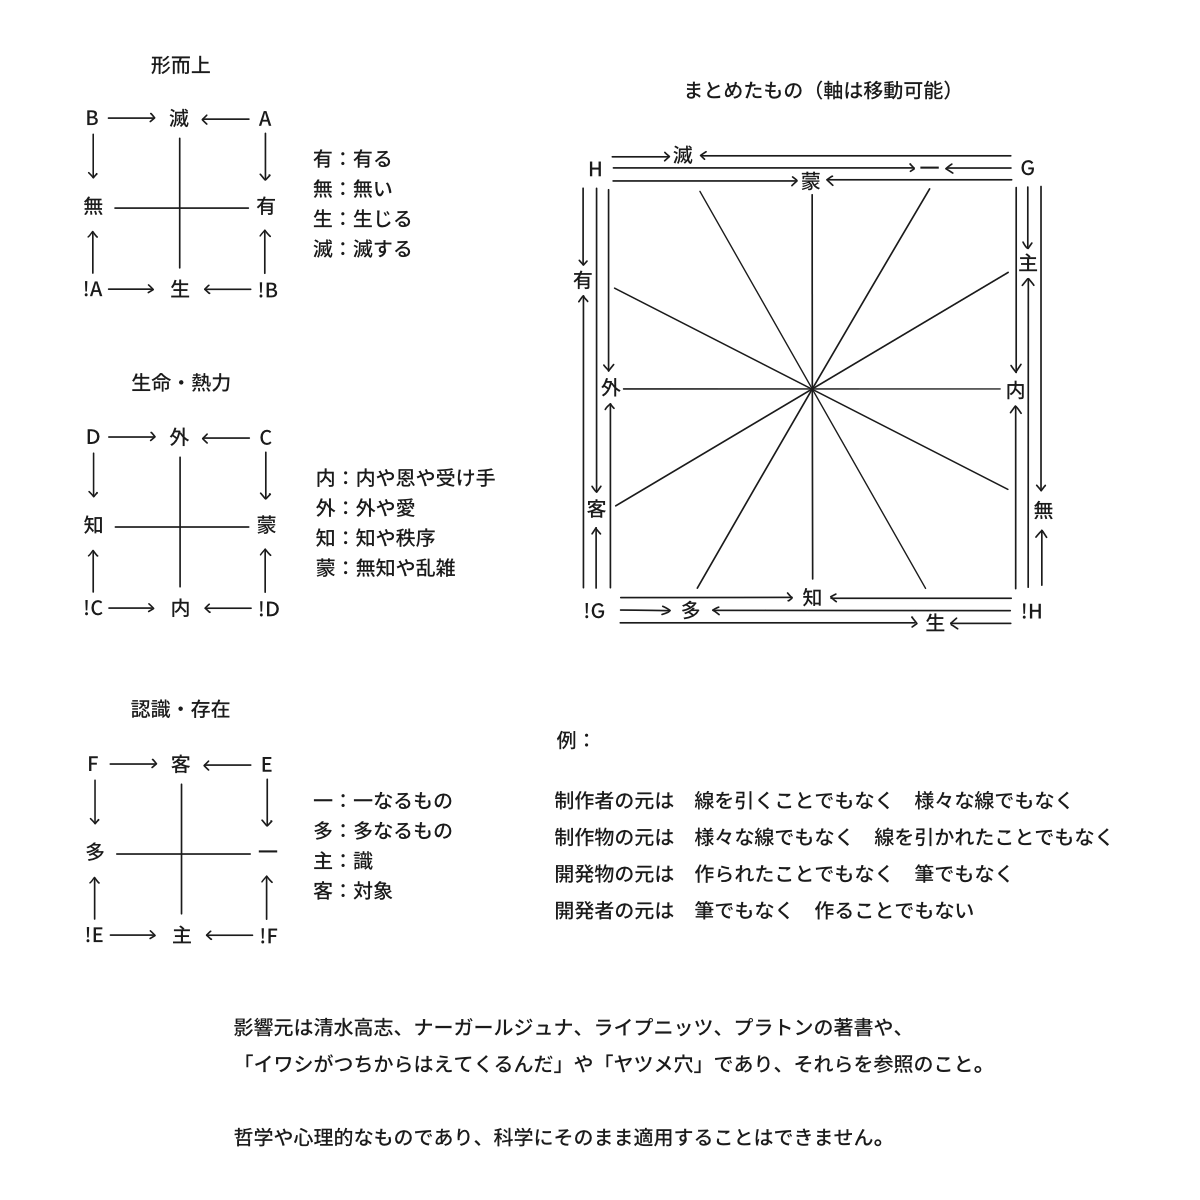
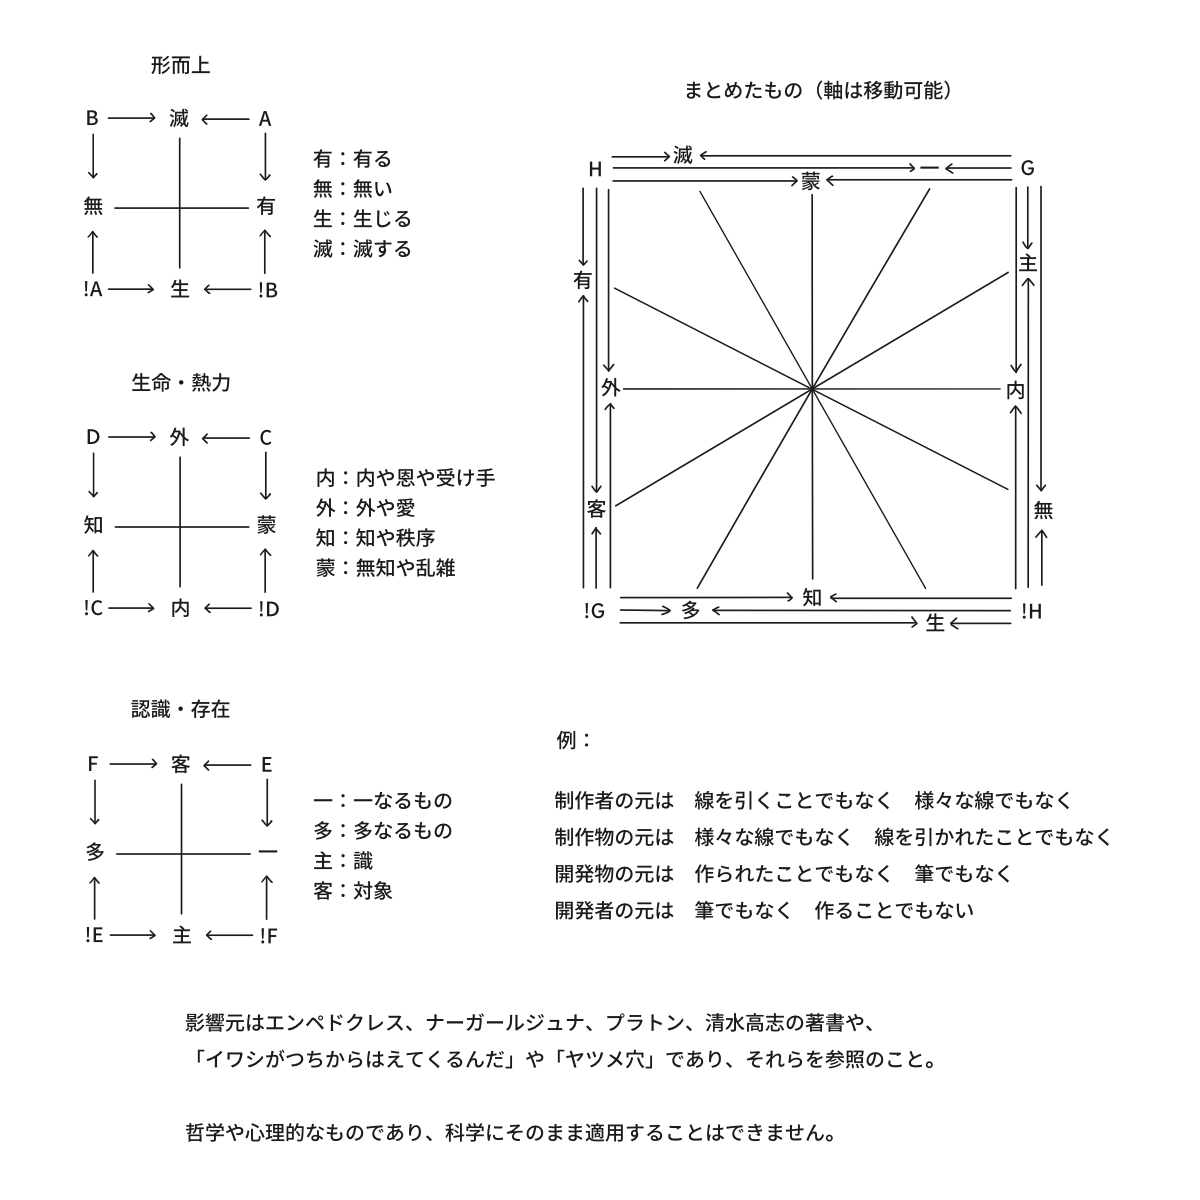
c

Changed region(s): [[0.1542, 0.8325, 0.8017, 0.8942], [0.1542, 0.925, 0.74, 0.9558]]

diff --git a/Shikisen/PasteAction.swift b/Shikisen/PasteAction.swift
@@ -1500,9 +1500,10 @@ final class APasteAction: Action {
                 return true
             } else if let result = textView.typesetter.warpCursorOffset(at: textView.convertFromWorld(p)), result.isLastWarp {
                 let x = result.offset
-                let widthCount = Typobute.maxWidthCount
-                
                 var text = textView.model
+                let widthCount = text.widthCount == Typobute.mainWidthCount ?
+                Typobute.maxWidthCount : Typobute.mainWidthCount
+                
                 if text.widthCount != widthCount {
                     text.widthCount = widthCount
                     
@@ -2305,8 +2306,6 @@ final class APasteAction: Action {
                 beganPitch = pitch
                 beganBeat = beat
                 
-                sheetView.hideSelected()
-                
                 sheetView.newUndoGroup()
                 sheetView.unselect()
                 if !sheetView.scoreView.model.enabled {
@@ -2326,10 +2325,6 @@ final class APasteAction: Action {
                 
                 let notes = beganNotes.sorted(by: { $0.key < $1.key }).map { $0.value }
                 sheetView.append(notes)
-                if isSelected {
-                    sheetView.doSet(SheetSelection(noteSelections: beganNotes.keys.sorted()
-                        .reduce(into: .init()) { $0[$1] = .init(pitSelections: [0: .init()]) }))
-                }
                 
                 let octaveNode = scoreView.octaveNode(noteIs: Array(count ..< count + notes.count))
                 octaveNode.attitude.position = sheetView.convertToWorld(scoreView.node.attitude.position)
@@ -3026,10 +3021,10 @@ final class APasteAction: Action {
                let (textView, ti, _, _) = sheetView.textTuple(at: sheetView.convertFromWorld(p), scale: rootView.screenToWorldScale),
                let x = textView.typesetter.warpCursorOffset(at: textView.convertFromWorld(p))?.offset {
                 let widthCount = textView.model.size == 0 ?
-                    Typobute.maxWidthCount :
+                    Typobute.mainWidthCount :
                     (x / textView.model.size)
                     .clipped(min: Typobute.minWidthCount,
-                             max: Typobute.maxWidthCount)
+                             max: Typobute.mainWidthCount)
                 
                 var text = textView.model
                 if text.widthCount != widthCount {
@@ -3293,7 +3288,7 @@ final class APasteAction: Action {
                     }
                 }
             }
-        case .notesValue:
+        case .notesValue(let v):
             octaveNode?.removeFromParent()
             octaveNode = nil
             
@@ -3314,8 +3309,10 @@ final class APasteAction: Action {
             if !noteIVs.isEmpty {
                 sheetView.capture(noteIVs, old: oldNoteIVs)
             }
-            
-            sheetView.showSelected()
+            if v.isSelected {
+                sheetView.doSet(SheetSelection(noteSelections: noteIVs.map { $0.index }
+                    .reduce(into: .init()) { $0[$1] = .init(pitSelections: [0: .init()]) }))
+            }
         case .stereo(let stereo):
             guard let sheetView = rootView.sheetView(at: shp) else { return }
             if sheetView.model.score.enabled {

diff --git a/Shikisen/Typesetter.swift b/Shikisen/Typesetter.swift
@@ -22,10 +22,11 @@ enum Alignment {
 struct Typobute: Hashable {
     static let minWidthCount = 4.0
     static let defaultWidthCount = 40.0
-    static let maxWidthCount = 40.0
+    static let mainWidthCount = 40.0
+    static let maxWidthCount = 56.0
     
     var font = Font.default,
-        maxTypelineWidth = Font.defaultSize * maxWidthCount,
+        maxTypelineWidth = Font.defaultSize * mainWidthCount,
         clippedMaxTypelineWidth = Font.defaultSize * 58,
         spacing: Double?,
         alignment = Alignment.natural,

diff --git a/Shikisen/Text.swift b/Shikisen/Text.swift
@@ -352,7 +352,7 @@ extension Text {
         }
         let widthCount = Double(maxCount)
             .clipped(min: Typobute.defaultWidthCount,
-                     max: Typobute.maxWidthCount)
+                     max: Typobute.mainWidthCount)
         self.init(string: string,
                   size: size,
                   widthCount: widthCount,
@@ -367,7 +367,7 @@ extension Text: Protobuf {
         self.size = size.clipped(min: 0, max: Font.maxSize)
         let wc = (try? pb.widthCount.notZeroAndNaN()) ?? Typobute.defaultWidthCount
         self.widthCount = wc.clipped(min: Typobute.minWidthCount,
-                                     max: Typobute.maxWidthCount)
+                                     max: Typobute.mainWidthCount)
         origin = (try? .init(pb.origin).notInfiniteAndNAN()) ?? .init()
         self.locale = (try? .init(pb.locale)) ?? .current
         self.timeOption = if case .timeOption(let timeOption)? = pb.timeOptionOptional {

diff --git a/Shikisen/DrawLineAction.swift b/Shikisen/DrawLineAction.swift
@@ -754,7 +754,7 @@ final class LineAction: Action {
                     
                     tempPs = [p]
                 } else if isAppend(maxDSq: event.time - firstChangedTime < 0.04 ?
-                                   3.0.squared : 0.5.squared) {
+                                   3.0.squared : 0.75.squared) {
                     nLine.controls[nLine.controls.count - 3].weight = 0.5
                     let prp = nLine.controls[nLine.controls.count - 1]
                     nLine.controls[nLine.controls.count - 2] = prp

diff --git a/Readme.md b/Readme.md
@@ -86,7 +86,7 @@ Mac内蔵のトラックパッドまたは Magic Trackpad 必須<br>
 <br>
 
 <img src="Shikisen/Images/Readme14.png" alt="楽譜" width="50%"><br>
-　楽譜は常にリアルタイムで引かれた音符の和音を最小の和音の組み合わせで、音量も考慮して背景に表記します。どこにトライトーンがあったり、メジャーコードがあったりするかを視覚的にも把握できるようになっており、それらの組み合わせを覚えることで四和音以上も把握できるようになっています。楽譜上でキー入力をすることで声の入力になります。最大限ズームした状態で音符を移動することで他の音符に対して相対的な純正比率を設定することもでき、許容できる音程のズレを考えることで平均律と純正律を自由に行き来できます。<br>
+　楽譜は常にリアルタイムで引かれた音符の和音を最小の和音の組み合わせで、音量も考慮して背景に表記します。どこにトライトーンがあったり、メジャーコードがあったりするかを視覚的にも把握できるようになっており、それらの組み合わせを覚えることで四和音以上も把握できるようになっています。楽譜上でキー入力をすることで声の入力になります。最大限ズームした状態で音符を移動することで他の音符に対して相対的な純正比率をスナップすることもでき、許容できる音程のズレを考えることで平均律と純正律を自由に行き来できます。<br>
 <br>
 
 　最後にこのソフトウェアについて、制作者が開発に手を出してしまい開発者となってしまった制作者が、制作と開発を右往左往した果てにできたものです。統合的としつつも、開発者にとって好きなことが中心になっており、また、設計に問題があると思うところがまだまだたくさんあります。もし、他の誰かにとって現時点のこのソフトウェアが最低限遊べるものであるなら幸いです。<br>
@@ -136,7 +136,7 @@ Mac内蔵のトラックパッドまたは Magic Trackpad 必須<br>
 ## ライセンス
 [GNU General Public License v3.0](License.md)
 
-©︎2026 [Cii](https://twitter.com/cii0000)<br>
+©︎2026 [Cii](https://x.com/cii0000)<br>
 <br>
 
 ## 謝辞